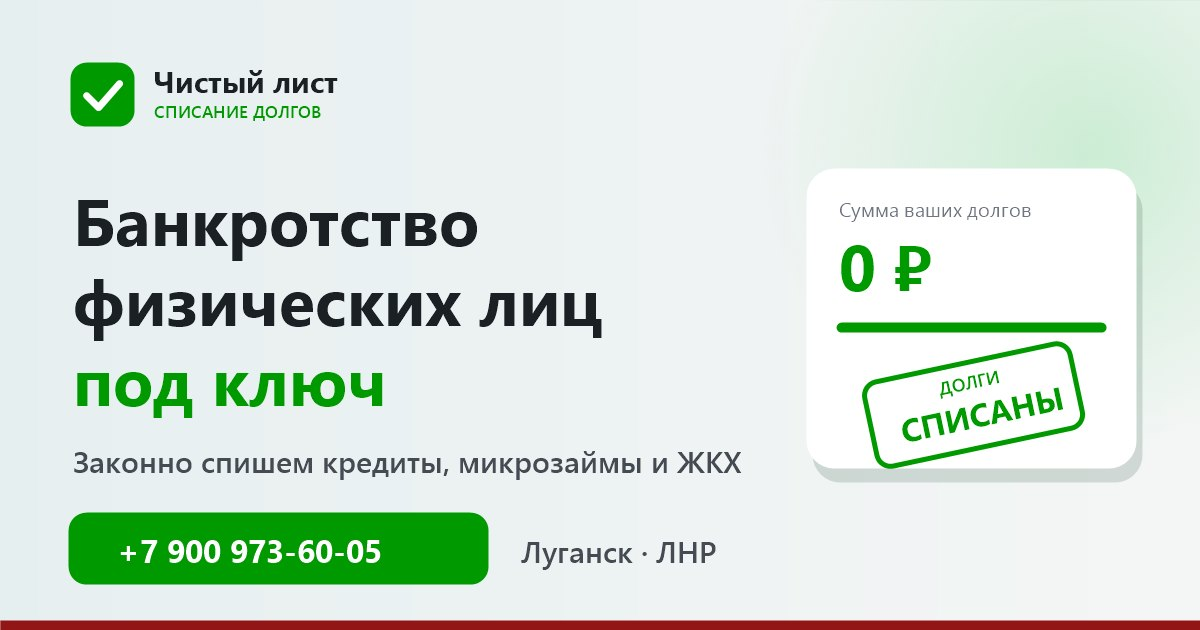
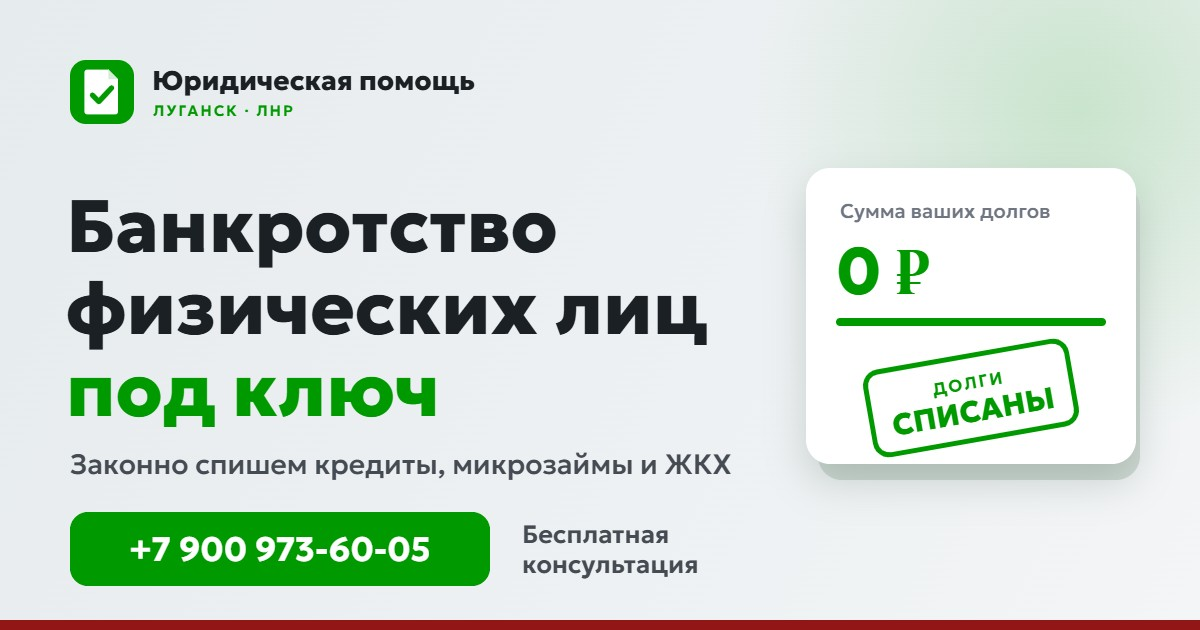
Rename site to «Банкротство физических лиц», redraw social preview

diff --git a/index.html b/index.html
@@ -7,14 +7,14 @@
      Внешние ссылки (МАКС, ВК, Авито) — обычные переходы, запросов они не делают. -->
 <meta http-equiv="Content-Security-Policy" content="default-src 'self'; img-src 'self' data:; style-src 'self'; font-src 'self'; script-src 'self'; form-action 'none'; base-uri 'self'; object-src 'none'">
 <meta name="referrer" content="strict-origin-when-cross-origin">
-<title>Списание долгов и банкротство физических лиц в Луганске — «Чистый лист»</title>
+<title>Банкротство физических лиц в Луганске — списание долгов под ключ</title>
 <meta name="description" content="Банкротство физических лиц под ключ в Луганске и ЛНР. Законно спишем кредиты, микрозаймы и долги по ЖКХ по 127-ФЗ. Бесплатная консультация: +7 900 973-60-05.">
 <meta name="theme-color" content="#009900">
 <meta name="format-detection" content="telephone=no">
 
 <meta property="og:type" content="website">
 <meta property="og:locale" content="ru_RU">
-<meta property="og:title" content="Списание долгов и банкротство в Луганске — «Чистый лист»">
+<meta property="og:title" content="Банкротство физических лиц в Луганске — списание долгов под ключ">
 <meta property="og:description" content="Законно спишем кредиты, микрозаймы и долги по ЖКХ. Бесплатная консультация юриста.">
 <meta property="og:url" content="https://ezi234.github.io/spisanie-dolgov/">
 <meta property="og:image" content="https://ezi234.github.io/spisanie-dolgov/img/og-cover.jpg">
@@ -33,7 +33,7 @@
 {
   "@context": "https://schema.org",
   "@type": "LegalService",
-  "name": "Чистый лист — списание долгов и банкротство физических лиц",
+  "name": "Банкротство физических лиц",
   "url": "https://ezi234.github.io/spisanie-dolgov/",
   "image": "https://ezi234.github.io/spisanie-dolgov/img/og-cover.jpg",
   "telephone": "+7-900-973-60-05",
@@ -132,9 +132,9 @@
 <!-- ================= ШАПКА ================= -->
 <header class="header" id="header">
   <div class="container header__inner">
-    <a class="logo" href="#top" aria-label="«Чистый лист» — на главную">
+    <a class="logo" href="#top" aria-label="Банкротство физических лиц — на главную">
       <svg class="logo__mark" aria-hidden="true"><use href="#i-logo"/></svg>
-      <span class="logo__text">Чистый лист<em>списание долгов</em></span>
+      <span class="logo__text">Банкротство<em>физических лиц</em></span>
     </a>
 
     <nav class="nav" id="nav" aria-label="Разделы сайта">
@@ -830,9 +830,9 @@
 <footer class="footer">
   <div class="container footer__inner">
     <div class="footer__brand">
-      <a class="logo logo--light" href="#top" aria-label="«Чистый лист» — наверх">
+      <a class="logo logo--light" href="#top" aria-label="Банкротство физических лиц — наверх">
         <svg class="logo__mark" aria-hidden="true"><use href="#i-logo"/></svg>
-        <span class="logo__text">Чистый лист<em>списание долгов</em></span>
+        <span class="logo__text">Банкротство<em>физических лиц</em></span>
       </a>
       <p>Юридическая помощь в списании долгов через банкротство физических лиц.</p>
     </div>
@@ -846,7 +846,7 @@
     </div>
   </div>
   <div class="container footer__legal">
-    <p>© <span id="year">2026</span> «Чистый лист». Информация на сайте не является публичной офертой. Результат зависит от обстоятельств дела и решения суда.</p>
+    <p>© <span id="year">2026</span> Банкротство физических лиц, Луганск. Информация на сайте не является публичной офертой. Результат зависит от обстоятельств дела и решения суда.</p>
   </div>
 </footer>
 

diff --git a/css/style.css b/css/style.css
@@ -1,5 +1,5 @@
 /* =========================================================
-   «Чистый лист» — списание долгов и банкротство
+   Банкротство физических лиц — сайт-лендинг
    Палитра: серо-голубой фон, белые карточки, зелёный
    основной цвет, бордовый акцент и мятные подложки.
    ========================================================= */

diff --git a/js/main.js b/js/main.js
@@ -1,5 +1,5 @@
 /* =========================================================
-   «Чистый лист» — сценарии страницы.
+   Банкротство физических лиц — сценарии страницы.
    Без библиотек. Стили меняются только через CSSOM
    (classList и style.setProperty) — так их не блокирует CSP.
    ========================================================= */

diff --git a/README.md b/README.md
@@ -1,4 +1,4 @@
-# «Чистый лист» — списание долгов и банкротство
+# Банкротство физических лиц — сайт-лендинг
 
 Одностраничный сайт на чистом HTML, CSS и JS: без фреймворков и сборки, все файлы лежат в папке.
 
